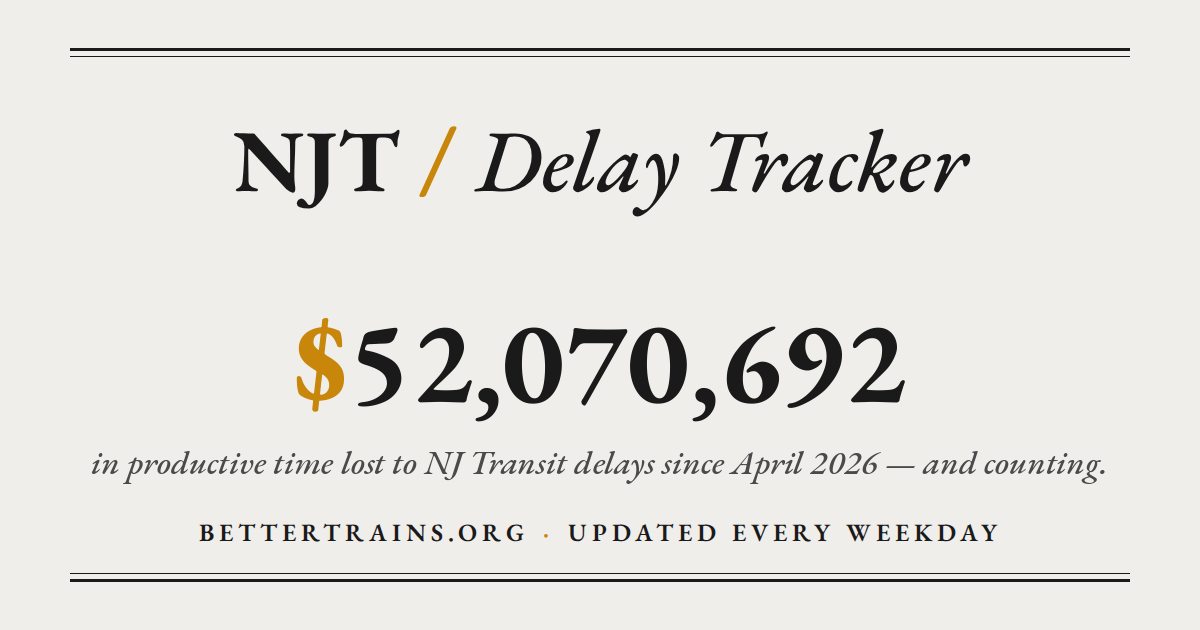
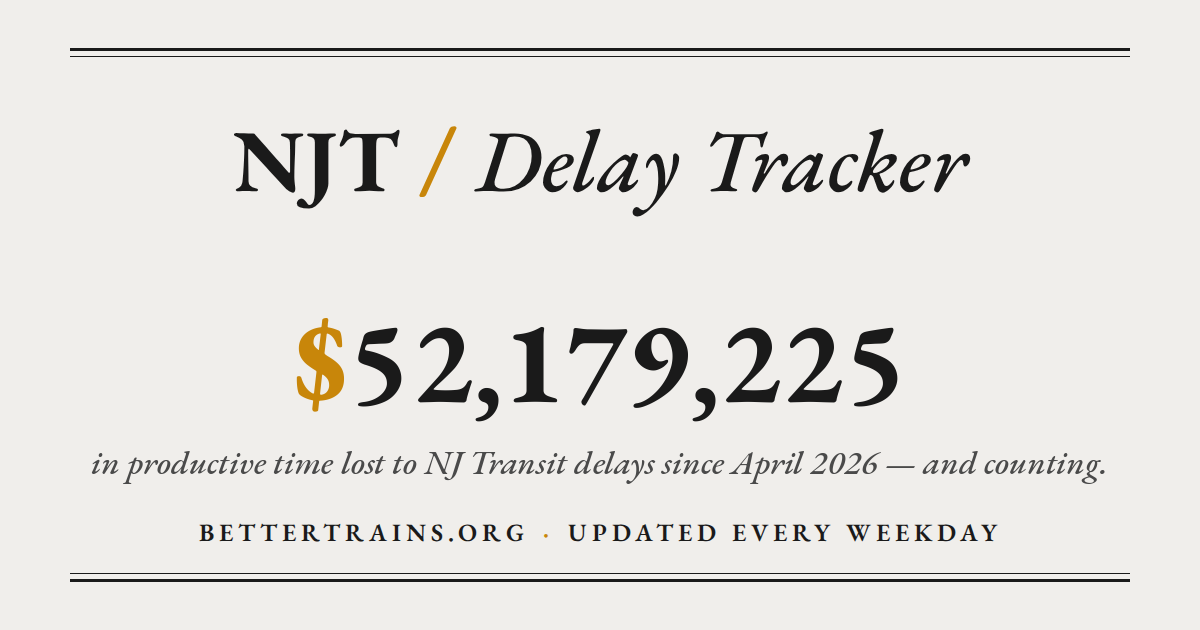
Update site stats and social card with latest figures

Changed region(s): [[0.5242, 0.5127, 0.7708, 0.6635], [0.4008, 0.5127, 0.4933, 0.6635]]

diff --git a/docs/index.html b/docs/index.html
@@ -518,12 +518,12 @@
       <!-- The WS: sentinel comments below are rewritten daily by src/web_stats.py
            with the latest figures, so non-JS crawlers see real numbers.
            Do not remove them. The script fetches fresher values live. -->
-      <p class="figure-label" id="figure-label-daily"><!--WS:DAILY_LABEL-->On Thursday, September 10, New Jersey Transit delays cost commuters and New York City employers more than:<!--/WS:DAILY_LABEL--></p>
-      <p class="figure-primary" id="figure-daily"><!--WS:DAILY-->$716,283<!--/WS:DAILY--></p>
-      <p class="figure-caption">in productive time, based on <strong id="figure-person-hours"><!--WS:HOURS-->16,279<!--/WS:HOURS--></strong> total hours of delays.</p>
+      <p class="figure-label" id="figure-label-daily"><!--WS:DAILY_LABEL-->On Friday, September 11, New Jersey Transit delays cost commuters and New York City employers more than:<!--/WS:DAILY_LABEL--></p>
+      <p class="figure-primary" id="figure-daily"><!--WS:DAILY-->$108,533<!--/WS:DAILY--></p>
+      <p class="figure-caption">in productive time, based on <strong id="figure-person-hours"><!--WS:HOURS-->2,467<!--/WS:HOURS--></strong> total hours of delays.</p>
 
       <p class="figure-label">Since we started tracking in April 2026, New Jersey Transit delays have cost commuters and employers more than:</p>
-      <p class="figure-secondary" id="figure-cumulative"><!--WS:CUMULATIVE-->$52,070,692<!--/WS:CUMULATIVE--></p>
+      <p class="figure-secondary" id="figure-cumulative"><!--WS:CUMULATIVE-->$52,179,225<!--/WS:CUMULATIVE--></p>
       <p class="figure-caption-secondary">in productive time spent waiting for missed, canceled, or delayed trains.</p>
 
       <p class="body-text">

diff --git a/docs/graphs.html b/docs/graphs.html
@@ -486,16 +486,16 @@
          remove them. The script fetches fresher values live. -->
     <div class="stat-row" id="stat-row">
       <div class="stat-card">
-        <div class="stat-value" id="stat-daily"><!--WS:DAILY-->$716,283<!--/WS:DAILY--></div>
-        <div class="stat-label" id="stat-daily-label"><!--WS:DAILY_LABEL-->Thursday’s delay cost<!--/WS:DAILY_LABEL--></div>
+        <div class="stat-value" id="stat-daily"><!--WS:DAILY-->$108,533<!--/WS:DAILY--></div>
+        <div class="stat-label" id="stat-daily-label"><!--WS:DAILY_LABEL-->Friday’s delay cost<!--/WS:DAILY_LABEL--></div>
       </div>
       <div class="stat-card">
-        <div class="stat-value" id="stat-cumulative"><!--WS:CUMULATIVE-->$52,070,692<!--/WS:CUMULATIVE--></div>
+        <div class="stat-value" id="stat-cumulative"><!--WS:CUMULATIVE-->$52,179,225<!--/WS:CUMULATIVE--></div>
         <div class="stat-label">Cumulative since April 2026</div>
       </div>
       <div class="stat-card">
-        <div class="stat-value" id="stat-hours"><!--WS:HOURS-->16,279<!--/WS:HOURS--></div>
-        <div class="stat-label" id="stat-hours-label"><!--WS:HOURS_LABEL-->Person-hours lost Thursday<!--/WS:HOURS_LABEL--></div>
+        <div class="stat-value" id="stat-hours"><!--WS:HOURS-->2,467<!--/WS:HOURS--></div>
+        <div class="stat-label" id="stat-hours-label"><!--WS:HOURS_LABEL-->Person-hours lost Friday<!--/WS:HOURS_LABEL--></div>
       </div>
     </div>
 
